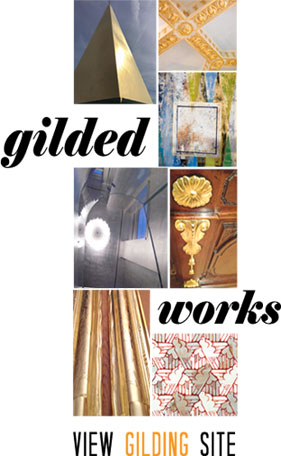
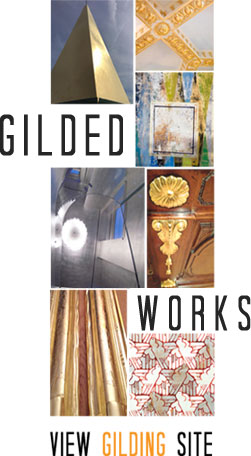
Design tweaks.

diff --git a/app/sass/main.scss b/app/sass/main.scss
@@ -10,7 +10,7 @@ footer,header,hgroup,menu,section { display:block;} nav, ul { list-style:none;}
 /* end reset styles */
 
 
-$medium-up: new-breakpoint(min-width 720px);
+$medium-up: new-breakpoint(min-width 904px);
 
 /* @font-face kit by Fonts2u (http://www.fonts2u.com) */
 
@@ -43,19 +43,22 @@ a.fb {
 }
 
 .splash .wrapper {
-  margin: 0 auto rem(72);
+  margin: rem(46) auto rem(72);
 }
 
   .splash header {
     margin: rem(12) auto;
+    width: rem(254);
+    height: rem(254);
+    position: relative;
 
     a {
       text-indent: -9999px;
       background: url(/images/header-vertical.png) 0 0 no-repeat;
       display: block;
-      width: rem(198);
-      height: rem(227);
       margin: 0 auto;
+      width: rem(254);
+      height: rem(254);
     }
   }
 
@@ -69,21 +72,31 @@ a.fb {
     }
 
     .gilding {
-      margin-bottom: rem(48);
+      margin-bottom: rem(78);
     }
   }
 
 @include media($medium-up) {
+  .splash .wrapper {
+    background: url(/images/background.jpg) 0 0 no-repeat;
+    max-width: rem(904);
+    margin-top: rem(98);
+    min-height: rem(700);
+  }
+
   .splash .sites {
     @include outer-container(100%);
   }
 
-  .splash header a {
-    position: relative;
-    top: rem(102);
-    z-index: 99;
+  .splash header {
+    height: rem(84);
+    a {
+      position: absolute;
+      top: rem(-12);
+      left: rem(6);
+      z-index: 99;
+    }
   }
-
   .splash .sites .gilding {
     @include span-columns(6);
     margin-bottom: 0;
